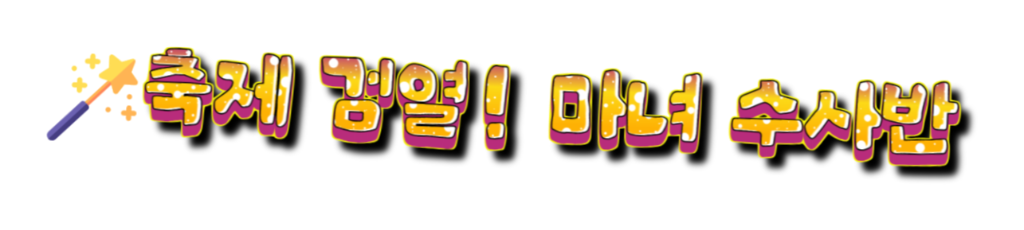
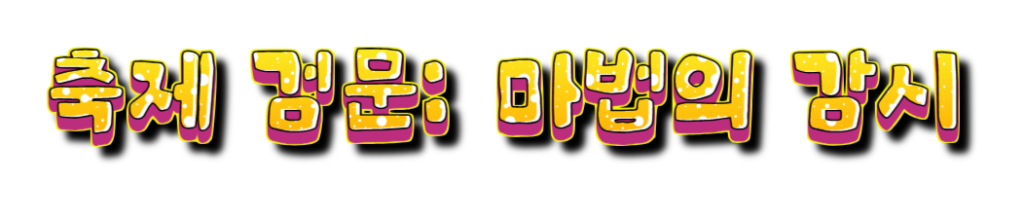
제목 변경

diff --git a/index.html b/index.html
@@ -4,16 +4,17 @@
   <meta charset="UTF-8" />
   <link rel="icon" type="image/svg+xml" href="https://media1.tenor.com/m/VTIyImEgXFsAAAAC/lwa-little-witch-academia.gif" />
   <meta name="viewport" content="width=device-width, initial-scale=1.0" />
-  <meta property="og:title" content="마녀축제 검열!">
+  <meta property="og:title" content="축제 검문!">
   <meta property="og:description" content="축제를 놀이판으로 만든 학생회를 용서하지마라">
   <meta property="og:image" content="https://raw.githubusercontent.com/asa9874/inspection-game/main/public/img/startimg.png">
 
   
-  <title>검열게임</title>
+  <title>검문게임</title>
 </head>
 <body>
   <div class="basebox gamestartbox">
     <img class="starttitle">
+    <img class="startsubtitle"> 
     <div class="startimg"></div>
     <div class="startbuttonbox">
       <div class="GameStartButton">시작하기</div>

diff --git a/src/main.js b/src/main.js
@@ -6,7 +6,7 @@ import $ from 'jquery'
 //$('.gamestartbox').hide()
 $('.startimg').css('background-image',"linear-gradient(rgba(0, 0, 0, 0.5), rgba(0, 0, 0, 0)),url('./img/startimg.png')")
 $('.starttitle').attr('src',"./img/title.png")
-
+$('.startsubtitle').attr('src',"./img/subtitle.png")
 
 //메인게임
 $('.maingamebox').hide()

diff --git a/src/assets/start.css b/src/assets/start.css
@@ -20,6 +20,11 @@
     top: 0;
 }
 
+.startsubtitle{
+    position: absolute;
+    top:130px
+}
+
 .GameStartButton{
     display: flex;
     align-items: center;
